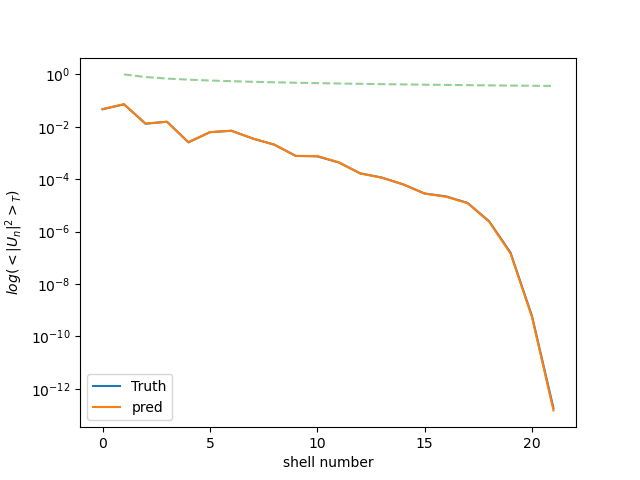
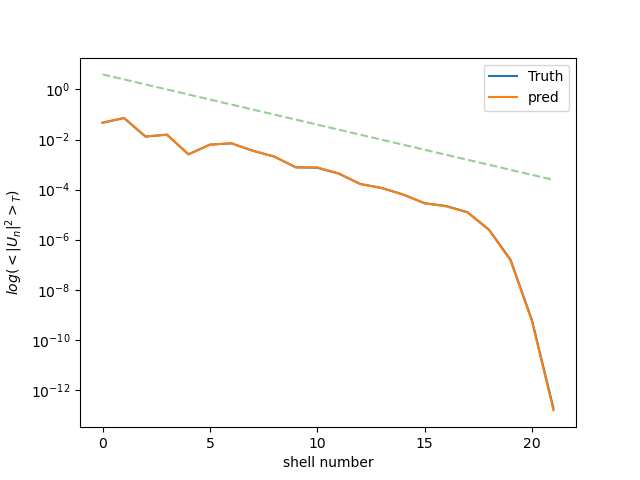
update

diff --git a/KF/enKF_as_paper.py b/KF/enKF_as_paper.py
@@ -108,7 +108,7 @@ MS = np.array([(0.05**2)*np.mean(shell_array[:,k]**2 ) for k in range(0,44,2)])
 ### parameters
 n     = 44 # state size  on veut estimer les Un de 1 à 22 avec Re et Im donc 44 variables d'état
 p     = 2*(k_max_collocation-k_min_collocation + 1) # On observe Un n=5,6,7,8,9,10 avec Re et Im donc 12 variables d'observations 
-nb    = Npts # number of times
+nb    = 3000#Npts # number of times
 time  = np.array(range(nb)) # time vector
 var_Q = 0.0 # error variance of the model (in Kalman)
 var_R = 0.1 # error variance of the observations (in Kalman)
@@ -327,7 +327,7 @@ j_start = 2
 
 amp = np.std(Data_shell, axis=0)
 
-nb = 3000
+
 # initialisation de l'ensemble 
 for i in range(Ne):
     #x_a_enkf_tmp[:,i] = np.random.multivariate_normal(x_0, P_0)
@@ -481,7 +481,7 @@ print('RMSE(EnKF):', np.sqrt(np.mean((x_a_enkf[:,0:nb] - Data_shell.T[:,0:nb])**
 plt.figure()
 plt.semilogy([i for i in range(int(n/2))],np.mean(Data_shell.T[0::2,0:nb]**2 + Data_shell.T[1::2,0:nb]**2,1),label='Truth')
 plt.semilogy([i for i in range(int(n/2))],np.mean(x_a_enkf[0::2,0:nb]**2 + x_a_enkf[1::2,0:nb]**2,1),label='pred')
-plt.semilogy([i for i in range(1,int(n/2))],[i**(-1/3) for i in range(1,int(n/2))],'--',alpha=0.5)
+plt.semilogy([i for i in range(int(n/2))],[k**(-2/3) for k in K],'--',alpha=0.5)
 plt.xlabel('shell number')
 plt.ylabel('$log(<|U_n|^2>_T)$')
 plt.legend()
